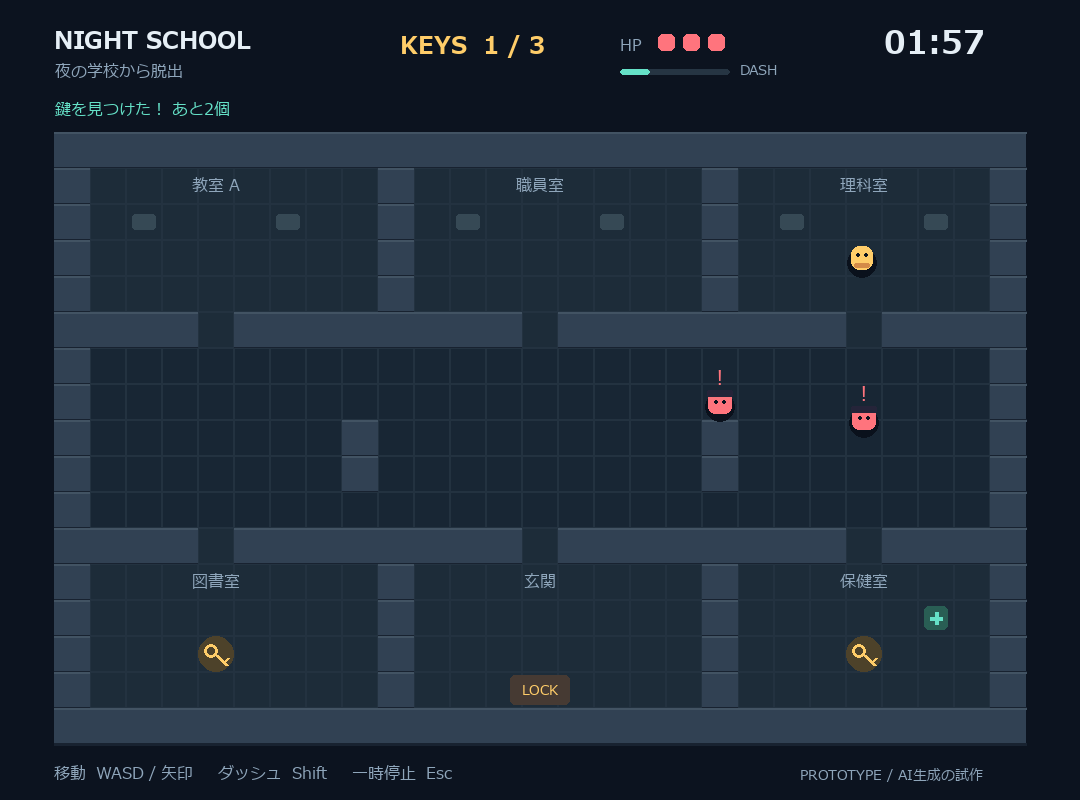
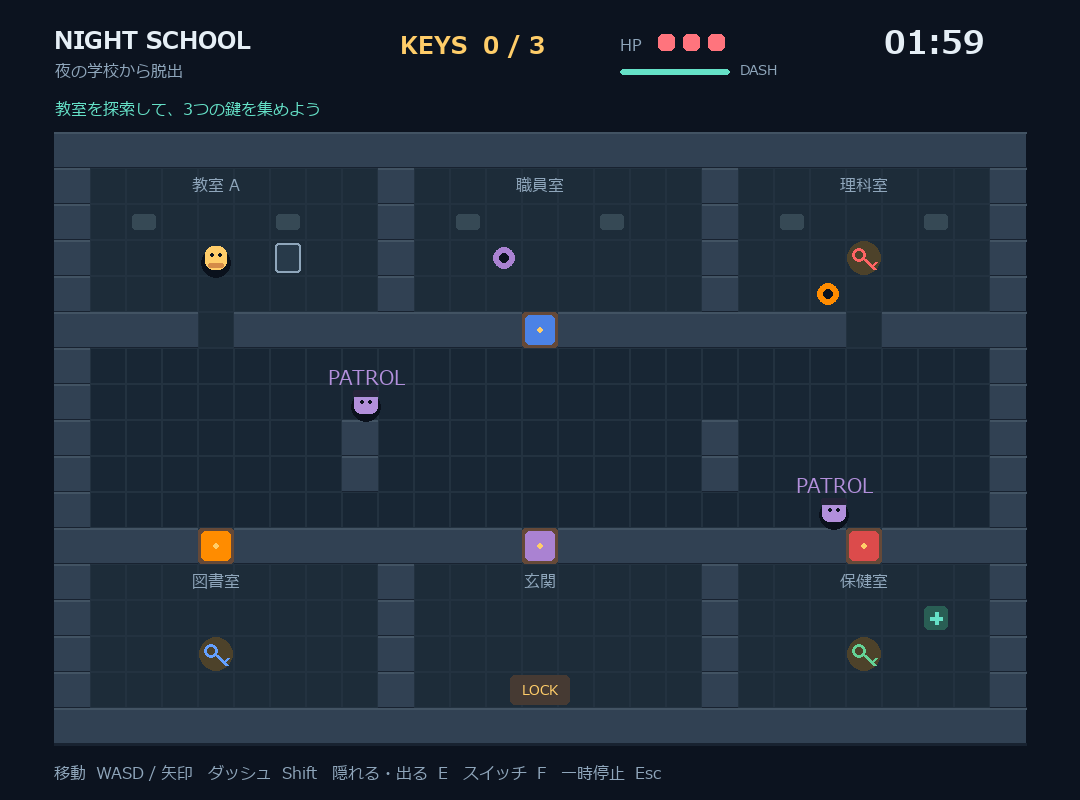
第6回提出用の操作説明と起動設定を整備

diff --git a/README.md b/README.md
@@ -3,8 +3,8 @@
 ![ゲーム画面](preview_play.png)
 
 ## 実行環境の必要条件
-- python >= 3.10
-- pygame >= 2.1
+- Python 3.10以上（動作確認：Python 3.13.12）
+- pygame 2.6.1（`requirements.txt`で指定）
 - 日本語表示に対応したフォント
 
 ## ゲームの概要
@@ -20,6 +20,8 @@
 - 隠れ場所（四角い箱）の近くでEキーを押すと隠れ、見回り役に見つからない。もう一度Eキーで出る。隠れている間は動けず、鍵や回復も取れない
 - ダッシュで動くと足音の輪が出て効果音が鳴り、輪の中にいる見回り役は足音の場所へ追いかけてくる
 - 校舎内に配置された3つの鍵に触れると、自動的に取得できる
+- 校舎Aでは、赤・青の鍵を持って対応する色のドアに近づくと、自動で開く
+- 校舎Aでは、スイッチの近くでFキーを押すと、対応するドアが開く。隠れている間は操作できない。校舎Bにはドアとスイッチはない
 - 鍵を3つ集めた状態で玄関に到達するとゲームクリアとなる
 - 見回り役は紫色のPATROLで巡回し、主人公を発見すると赤色のCHASEで追跡する。見失うと黄色のSEARCHで最後に見た場所の周囲を探す
 - HPは初期状態で3あり、見回り役との接触で1減少する
@@ -28,6 +30,23 @@
 - Escキーで一時停止と再開を切り替えられる
 - 結果画面ではRキーまたはEnterキーで同じステージに再挑戦でき、Tキーでタイトル画面に戻れる
 - 別のウィンドウに切り替えた場合は、自動的に一時停止する
+
+### スコアとランキング
+
+クリア時の得点は、次の合計です。早く脱出し、HPを多く残すほど高得点になります。
+
+| 項目 | 得点 |
+|---|---:|
+| クリア | 300点 |
+| 残り時間（小数点以下切り捨て） | 1秒につき10点 |
+| 残りHP | 1につき100点 |
+| 取得した鍵 | 1個につき50点 |
+| 一度もダメージを受けずにクリア | 追加200点 |
+| 残り時間60秒以上でクリア | 追加100点 |
+
+- ゲームオーバーは0点で、ランキングには保存されません。
+- 両ステージ共通の上位5件を保存します。同点の場合は残り時間が多い方を上位にします。
+- 記録は自分のパソコンの `saves/ranking.json` に自動保存されます。GitHubには共有されません。
 
 ## ゲームの実装
 
@@ -42,16 +61,21 @@
 - 見回り役の巡回、プレイヤーの発見、追跡処理
 - 一時停止、再開、再挑戦の処理
 
-### メモ
+## ToDo（今後の改善案・未実装）
 
+以下は今後の改善候補です。実装する内容・優先順位はグループで相談して決めます。
 
-### 実行方法
+- 難易度を選べるようにする（制限時間や敵の速さの調整）。
+- 初めて遊ぶ人向けに、操作を練習できるチュートリアルを追加する。
+- ランキングをステージ別に表示できるようにする。
+
+## 実行方法
 
 Windowsの場合は、プロジェクトのフォルダで以下を実行する。
 
     py -3.13 -m venv .venv
     .\.venv\Scripts\python.exe -m pip install -r requirements.txt
-    .\.venv\Scripts\python.exe game.py
+    .\.venv\Scripts\python.exe school_escape.py
 
 初回設定後は`run_game.cmd`からも起動できる。
 
@@ -59,14 +83,13 @@ macOS / Linuxの場合は、以下を実行する。
 
     python3 -m venv .venv
     .venv/bin/python -m pip install -r requirements.txt
-    .venv/bin/python game.py
+    .venv/bin/python school_escape.py
 
-自動テストは以下のコマンドで実行する。
+起動後は両ステージで移動・鍵の取得・脱出を確認してください。校舎AではFキーのスイッチ操作、ダッシュ時の足音、Eキーの隠れる操作も確認できます。
 
-    python -m unittest discover -s tests -v
-正式な共同開発リポジトリ：<https://github.com/kusupon/ProjExD_Group13>
-この参考用リポジトリから正式な開発先へ自動で同期されることはありません。
-## 変更点
+共同開発の取り込み先：<https://github.com/kusupon/ProjExD_Group13>
+
+## 担当別の追加機能
 
 ### 担当C0A25267
 - マップ・ステージ機能: 固定マップ、座標変換、経路探索、視線判定などをWorldクラスにまとめ、複数ステージを管理する機能
@@ -120,9 +143,7 @@ macOS / Linuxの場合は、以下を実行する。
 
 #### 主人公担当との接続
 
-プレイヤー担当向け：[足音を敵AIにつなぐガイド](docs/footstep_integration.txt)
-
-変更する場所、通知の実装例、確認手順をまとめています。例はゲーム本体には未適用です。
+足音と敵AIの接続は実装済みです。現在の接続方法は次のとおりです。
 
 - Guard.updateは、Player・World・NoiseEventの一覧を受け取ります。
 - Player.updateが返すNoiseEvent（positionとradius）は、Gameから敵へ渡されます。
@@ -130,7 +151,9 @@ macOS / Linuxの場合は、以下を実行する。
 - 音は距離で判定し、壁越しにも届きます。効果音と足音の輪は主人公担当の機能として鳴ります。
 - player.hiddenがTrueの主人公は視認しません。隠れる操作はEキーです。
 
-- 隠れる・足音機能（担当：メンバーA／C0A25059）：隠れ場所に隠れて見回り役をやり過ごす機能と、ダッシュの足音で見回り役を引きつける機能
+### 隠れる・足音機能（担当：C0A25059）
+
+隠れ場所に隠れて見回り役をやり過ごす機能と、ダッシュの足音で見回り役を引きつける機能です。
   - Playerに隠れる状態（hidden）とtoggle_hideを追加し、Eキーで隠れる・出るを切り替えます（隠れ場所はステージのhiding_spots）
   - 隠れている間は動けず、鍵・回復の取得と被弾をしません。Guardは隠れている相手を見つけられません
   - ダッシュで実際に動いたときだけ、0.35秒に1回、半径240pxの足音（NoiseEvent）を出します
